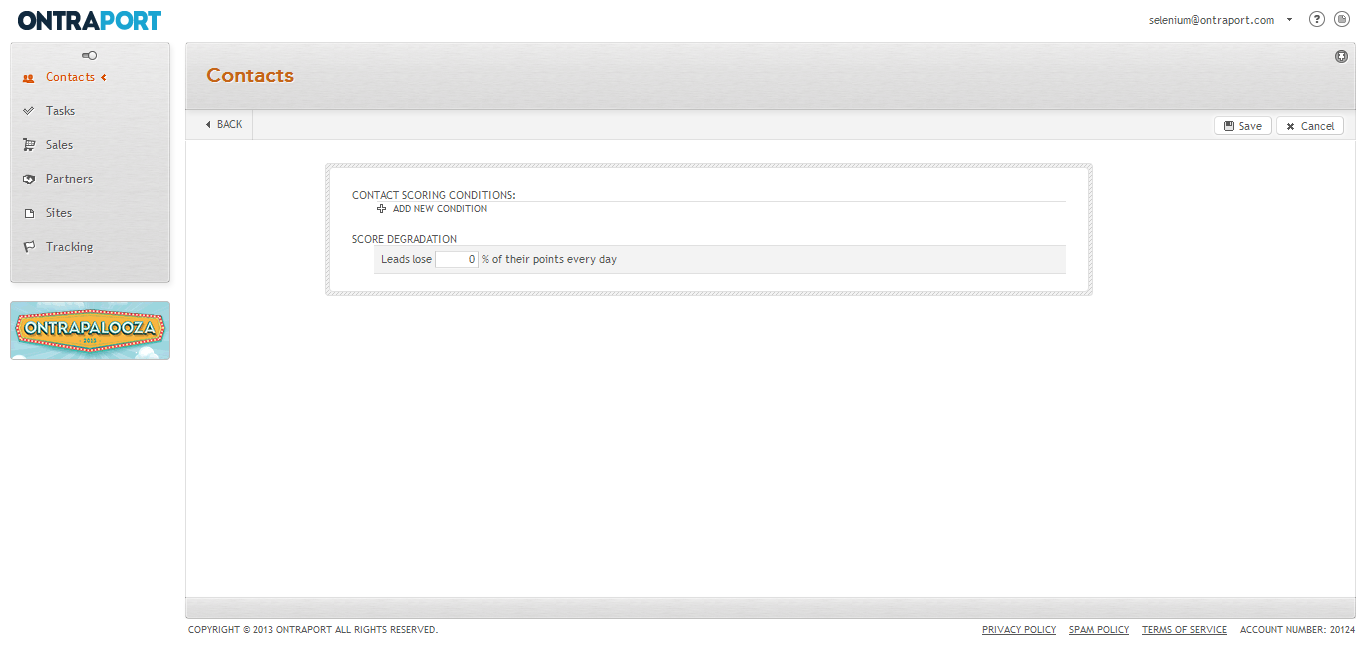
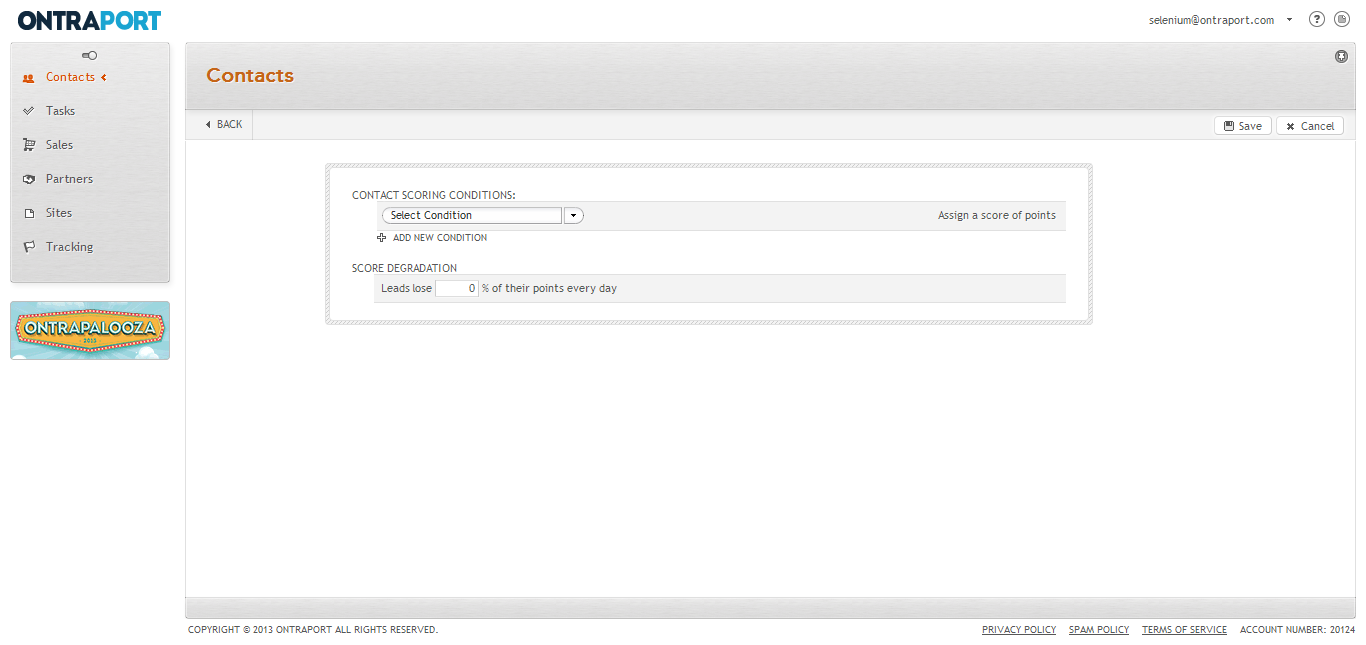
new tests_working

Changed region(s): [[0.246, 0.3101, 0.4612, 0.4651], [0.246, 0.4961, 0.7994, 0.5271], [0.6764, 0.3101, 0.7687, 0.3411]]

diff --git a/src/com/ontraport/app/tests/LeadScoring_TC0473.java b/src/com/ontraport/app/tests/LeadScoring_TC0473.java
@@ -1,0 +1,75 @@
+package com.ontraport.app.tests;
+
+import org.junit.Assert;
+import org.junit.Test;
+
+import com.ontraport.app.pages.Contact_Settings;
+import com.ontraport.app.pages.LeadScoring_Edit;
+import com.ontraport.app.parts.SiteMenu;
+import com.ontraport.app.tools.AbstractTest;
+import com.ontraport.app.tools.Common;
+
+public class LeadScoring_TC0473 extends AbstractTest {
+	
+	@Test
+	public void testLeadScoring_HasVisitedLandingPageCertainNoTimes() throws Exception {
+		LeadScoring_Edit leadScoringEditPgObj = navigateToLeadScoringPage ();
+		
+		
+		leadScoringEditPgObj = leadScoringEditPgObj.clearAllConditions();
+		leadScoringEditPgObj.clickSaveButton();
+		Common.waitForPage(driver, 60);
+			
+		leadScoringEditPgObj = navigateToLeadScoringPage ();
+		leadScoringEditPgObj = leadScoringEditPgObj.clickAddNewCondition();	
+		
+		//Create a Landing Page as prerequisite
+		String[] placeHolders = {"Select Condition", "Select Landing Page", "Select..."};
+		String[] selectOptions = {"Has visited a landing page a certain number of times", "XXXXXXXX", "Equal To"};
+				
+		leadScoringEditPgObj = leadScoringEditPgObj.selectDropDownsBasedOnConditions (placeHolders, selectOptions);
+		leadScoringEditPgObj = leadScoringEditPgObj.typeIntoTextBoxBasedOnIndex(3,"1");
+		
+		leadScoringEditPgObj = leadScoringEditPgObj.assignLeadScoringvalue("11");
+		leadScoringEditPgObj.clickSaveButton();
+		Common.waitForPage(driver, 60);
+			
+		leadScoringEditPgObj = navigateToLeadScoringPage ();
+		
+		boolean b = leadScoringEditPgObj.verifyTheValueInDropDownBasedOnPlaceHolder ("Select Landing Page", "XXXXXXXXXXX");
+		boolean b1 = leadScoringEditPgObj.verifyTheValueInDropDownBasedOnPlaceHolder ("Select...", "Equal To");	
+		boolean b2 = leadScoringEditPgObj.verifyValueOfTxtBoxBasedOnIndex(3, "1");
+		boolean b3 = leadScoringEditPgObj.verifyScoreValue("11");
+		
+		System.out.println(b);
+		System.out.println(b1);
+		System.out.println(b2);
+		System.out.println(b3);
+		
+		
+		Assert.assertTrue ("Landing Page", b);
+		Assert.assertTrue ("Condition", b1);
+		Assert.assertTrue ("number of times", b2);
+		Assert.assertTrue ("Score value", b3);
+	}
+	
+	
+	
+	
+	public LeadScoring_Edit navigateToLeadScoringPage () throws Exception{
+		SiteMenu siteMenu = (SiteMenu) new SiteMenu().init();
+		Common.waitForPage(driver, 30);
+		siteMenu.contacts();
+		siteMenu.contact_Settings();
+		
+		Contact_Settings contactSettings = (Contact_Settings) new Contact_Settings().init();
+		Common.waitForPage(driver, 30);
+		LeadScoring_Edit leadScoringEditPgObj = contactSettings.leadScoring();
+		Common.waitForPage(driver, 30);
+		return leadScoringEditPgObj;
+	}
+	
+	
+
+
+}

diff --git a/src/com/ontraport/app/tests/LeadScoring_TC0478.java b/src/com/ontraport/app/tests/LeadScoring_TC0478.java
@@ -1,0 +1,72 @@
+package com.ontraport.app.tests;
+
+import org.junit.Assert;
+import org.junit.Test;
+
+import com.ontraport.app.pages.Contact_Settings;
+import com.ontraport.app.pages.LeadScoring_Edit;
+import com.ontraport.app.parts.SiteMenu;
+import com.ontraport.app.tools.AbstractTest;
+import com.ontraport.app.tools.Common;
+
+public class LeadScoring_TC0478 extends AbstractTest {
+	
+	@Test
+	public void testLeadScoring_HasOrderCertainAmountProduct() throws Exception {
+		LeadScoring_Edit leadScoringEditPgObj = navigateToLeadScoringPage ();
+		
+		
+		leadScoringEditPgObj = leadScoringEditPgObj.clearAllConditions();
+		leadScoringEditPgObj.clickSaveButton();
+		Common.waitForPage(driver, 60);
+			
+		leadScoringEditPgObj = navigateToLeadScoringPage ();
+		leadScoringEditPgObj = leadScoringEditPgObj.clickAddNewCondition();	
+		
+		String[] placeHolders = {"Select Condition", "Select Subscription...", "Select Product"};
+		String[] selectOptions = {"Has been subscribed to a product for a certain amo...", "Equal To", "Any Product"};
+				
+		leadScoringEditPgObj = leadScoringEditPgObj.selectDropDownsBasedOnConditions (placeHolders, selectOptions);
+		leadScoringEditPgObj = leadScoringEditPgObj.typeIntoTextBoxBasedOnIndex(2,"1");
+		
+		leadScoringEditPgObj = leadScoringEditPgObj.assignLeadScoringvalue("11");
+		leadScoringEditPgObj.clickSaveButton();
+		Common.waitForPage(driver, 60);
+			
+		leadScoringEditPgObj = navigateToLeadScoringPage ();
+		
+		boolean b = leadScoringEditPgObj.verifyTheValueInDropDownBasedOnPlaceHolder ("Select...", "Equal To");
+		boolean b1 = leadScoringEditPgObj.verifyTheValueInDropDownBasedOnPlaceHolder ("Select Product", "Any Product");	
+		boolean b2 = leadScoringEditPgObj.verifyValueOfTxtBoxBasedOnIndex(2, "1");
+		boolean b3 = leadScoringEditPgObj.verifyScoreValue("11");
+		
+		System.out.println(b);
+		System.out.println(b1);
+		System.out.println(b2);
+		System.out.println(b3);
+		
+		
+		Assert.assertTrue ("Condition", b);
+		Assert.assertTrue ("Product", b1);
+		Assert.assertTrue ("number of times", b2);
+		Assert.assertTrue ("Score value", b3);
+	}
+	
+	
+	
+	
+	public LeadScoring_Edit navigateToLeadScoringPage () throws Exception{
+		SiteMenu siteMenu = (SiteMenu) new SiteMenu().init();
+		Common.waitForPage(driver, 30);
+		siteMenu.contacts();
+		siteMenu.contact_Settings();
+		
+		Contact_Settings contactSettings = (Contact_Settings) new Contact_Settings().init();
+		Common.waitForPage(driver, 30);
+		LeadScoring_Edit leadScoringEditPgObj = contactSettings.leadScoring();
+		Common.waitForPage(driver, 30);
+		return leadScoringEditPgObj;
+	}
+	
+}
+

diff --git a/src/com/ontraport/app/tests/LeadScoring_TC0477.java b/src/com/ontraport/app/tests/LeadScoring_TC0477.java
@@ -1,0 +1,62 @@
+package com.ontraport.app.tests;
+
+import org.junit.Assert;
+import org.junit.Test;
+
+import com.ontraport.app.pages.Contact_Settings;
+import com.ontraport.app.pages.LeadScoring_Edit;
+import com.ontraport.app.parts.SiteMenu;
+import com.ontraport.app.tools.AbstractTest;
+import com.ontraport.app.tools.Common;
+
+public class LeadScoring_TC0477 extends AbstractTest {
+	
+	@Test
+	public void testLeadScoring_HasOrderCertainAmountProduct() throws Exception {
+		LeadScoring_Edit leadScoringEditPgObj = navigateToLeadScoringPage ();
+		
+		
+		leadScoringEditPgObj = leadScoringEditPgObj.clearAllConditions();
+		leadScoringEditPgObj.clickSaveButton();
+		Common.waitForPage(driver, 60);
+			
+		leadScoringEditPgObj = navigateToLeadScoringPage ();
+		leadScoringEditPgObj = leadScoringEditPgObj.clickAddNewCondition();	
+		
+		String[] placeHolders = {"Select Condition", "Select Subscription..."};
+		String[] selectOptions = {"Is subscribed to product", "Any Subscription Product"};
+				
+		leadScoringEditPgObj = leadScoringEditPgObj.selectDropDownsBasedOnConditions (placeHolders, selectOptions);
+				
+		leadScoringEditPgObj = leadScoringEditPgObj.assignLeadScoringvalue("11");
+		leadScoringEditPgObj.clickSaveButton();
+		Common.waitForPage(driver, 60);
+			
+		leadScoringEditPgObj = navigateToLeadScoringPage ();
+		
+		boolean b1 = leadScoringEditPgObj.verifyTheValueInDropDownBasedOnPlaceHolder ("Select Subscription...", "Any Subscription Product");	
+		boolean b3 = leadScoringEditPgObj.verifyScoreValue("11");
+		
+		System.out.println(b1);
+		System.out.println(b3);
+		
+		
+		Assert.assertTrue ("Subscription Product", b1);
+		Assert.assertTrue ("Score value", b3);
+	}
+	
+	
+	public LeadScoring_Edit navigateToLeadScoringPage () throws Exception{
+		SiteMenu siteMenu = (SiteMenu) new SiteMenu().init();
+		Common.waitForPage(driver, 30);
+		siteMenu.contacts();
+		siteMenu.contact_Settings();
+		
+		Contact_Settings contactSettings = (Contact_Settings) new Contact_Settings().init();
+		Common.waitForPage(driver, 30);
+		LeadScoring_Edit leadScoringEditPgObj = contactSettings.leadScoring();
+		Common.waitForPage(driver, 30);
+		return leadScoringEditPgObj;
+	}
+	
+}
